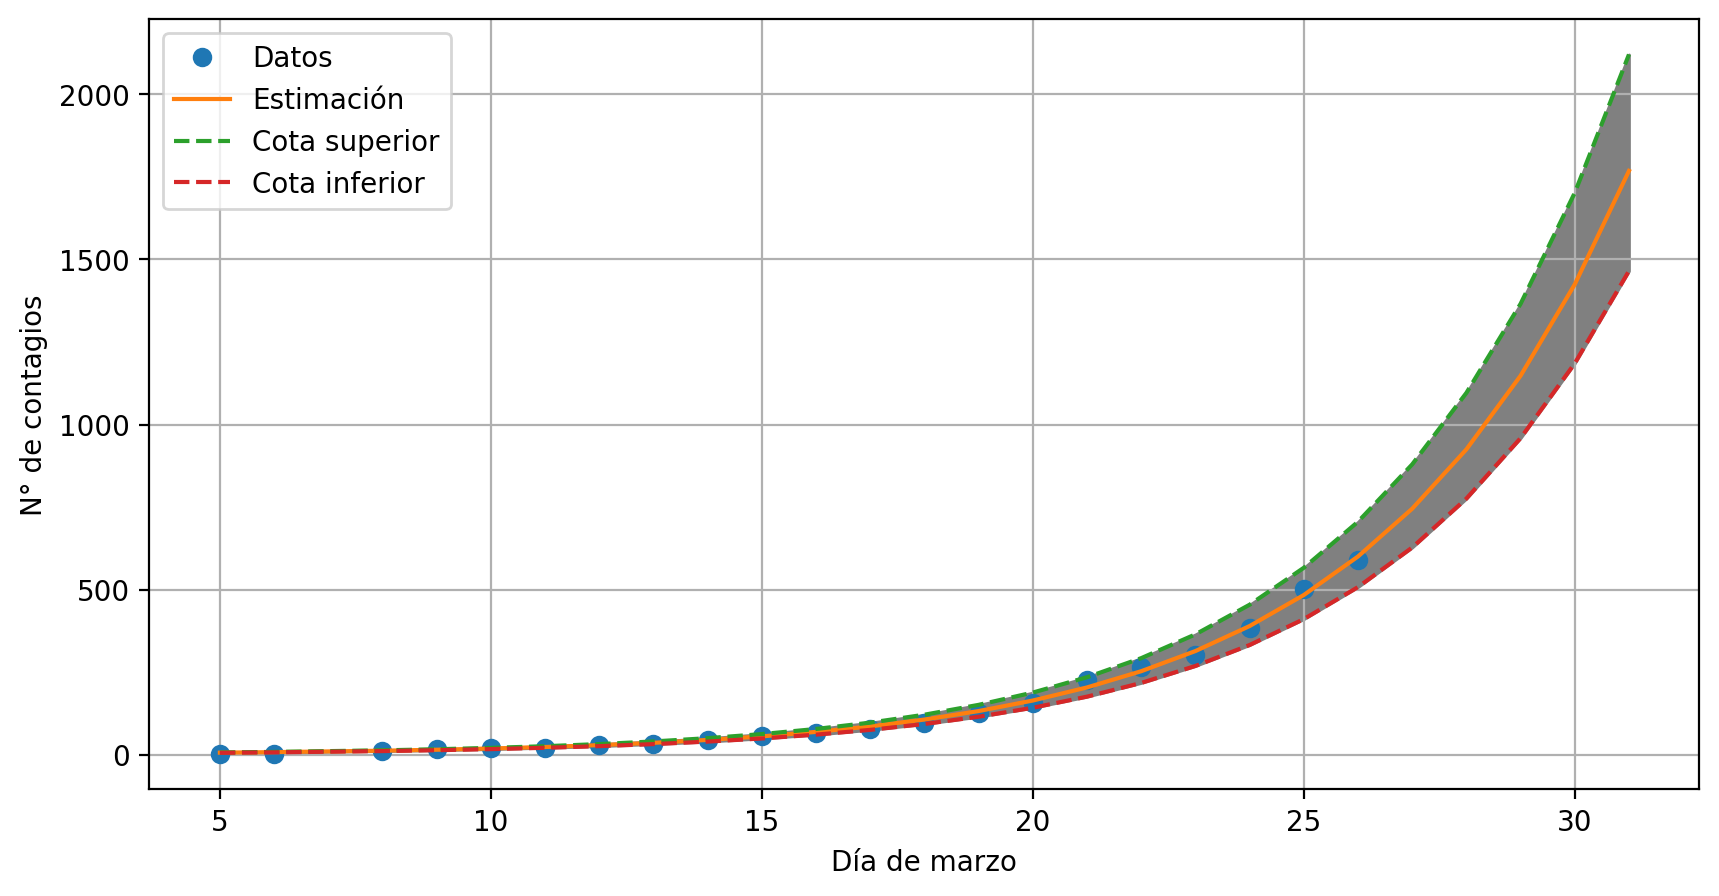
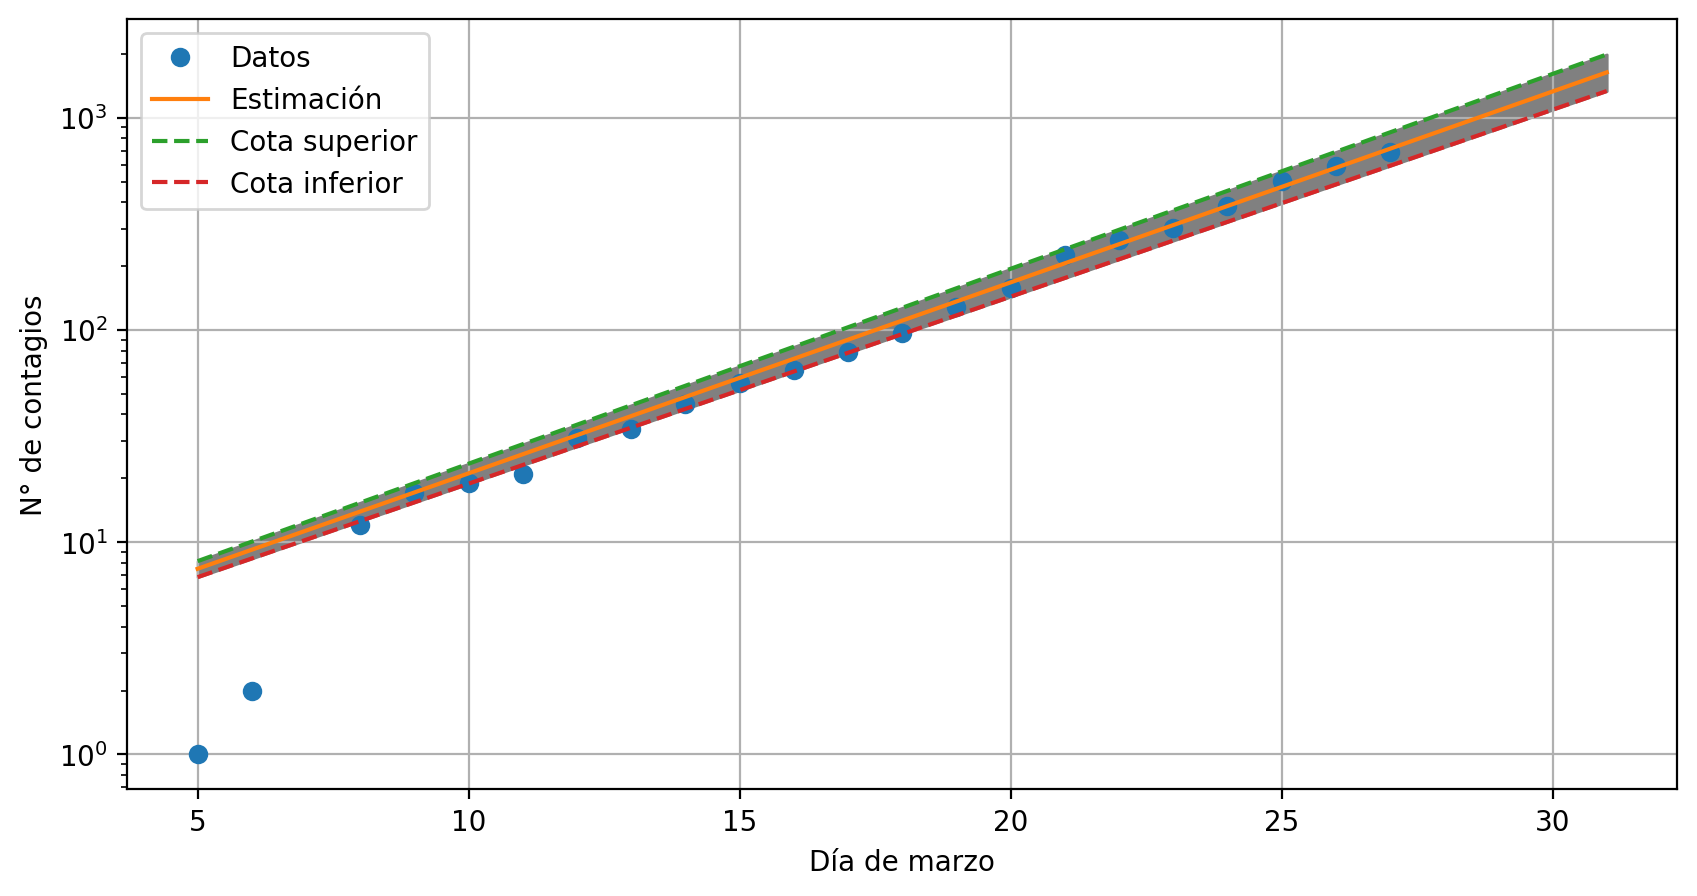
Actualización 27/03

diff --git a/covid.py b/covid.py
@@ -69,6 +69,7 @@ cases = np.array(
         385,
         502,
         589,
+        690,
     ]
 )
 end = len(cases)
@@ -84,7 +85,7 @@ fit_inf = (a - pcov[0, 0] ** 0.5) * np.exp(days * (b - pcov[1, 1] ** 0.5))
 # %%
 plt.figure(figsize=(10, 5))
 plt.grid()
-# plt.yscale("Log")
+plt.yscale("Log")
 plt.plot(days[0:end] + 5, cases, "o")
 plt.plot(days + 5, fit)
 plt.plot(days + 5, fit_sup, linestyle="--")
